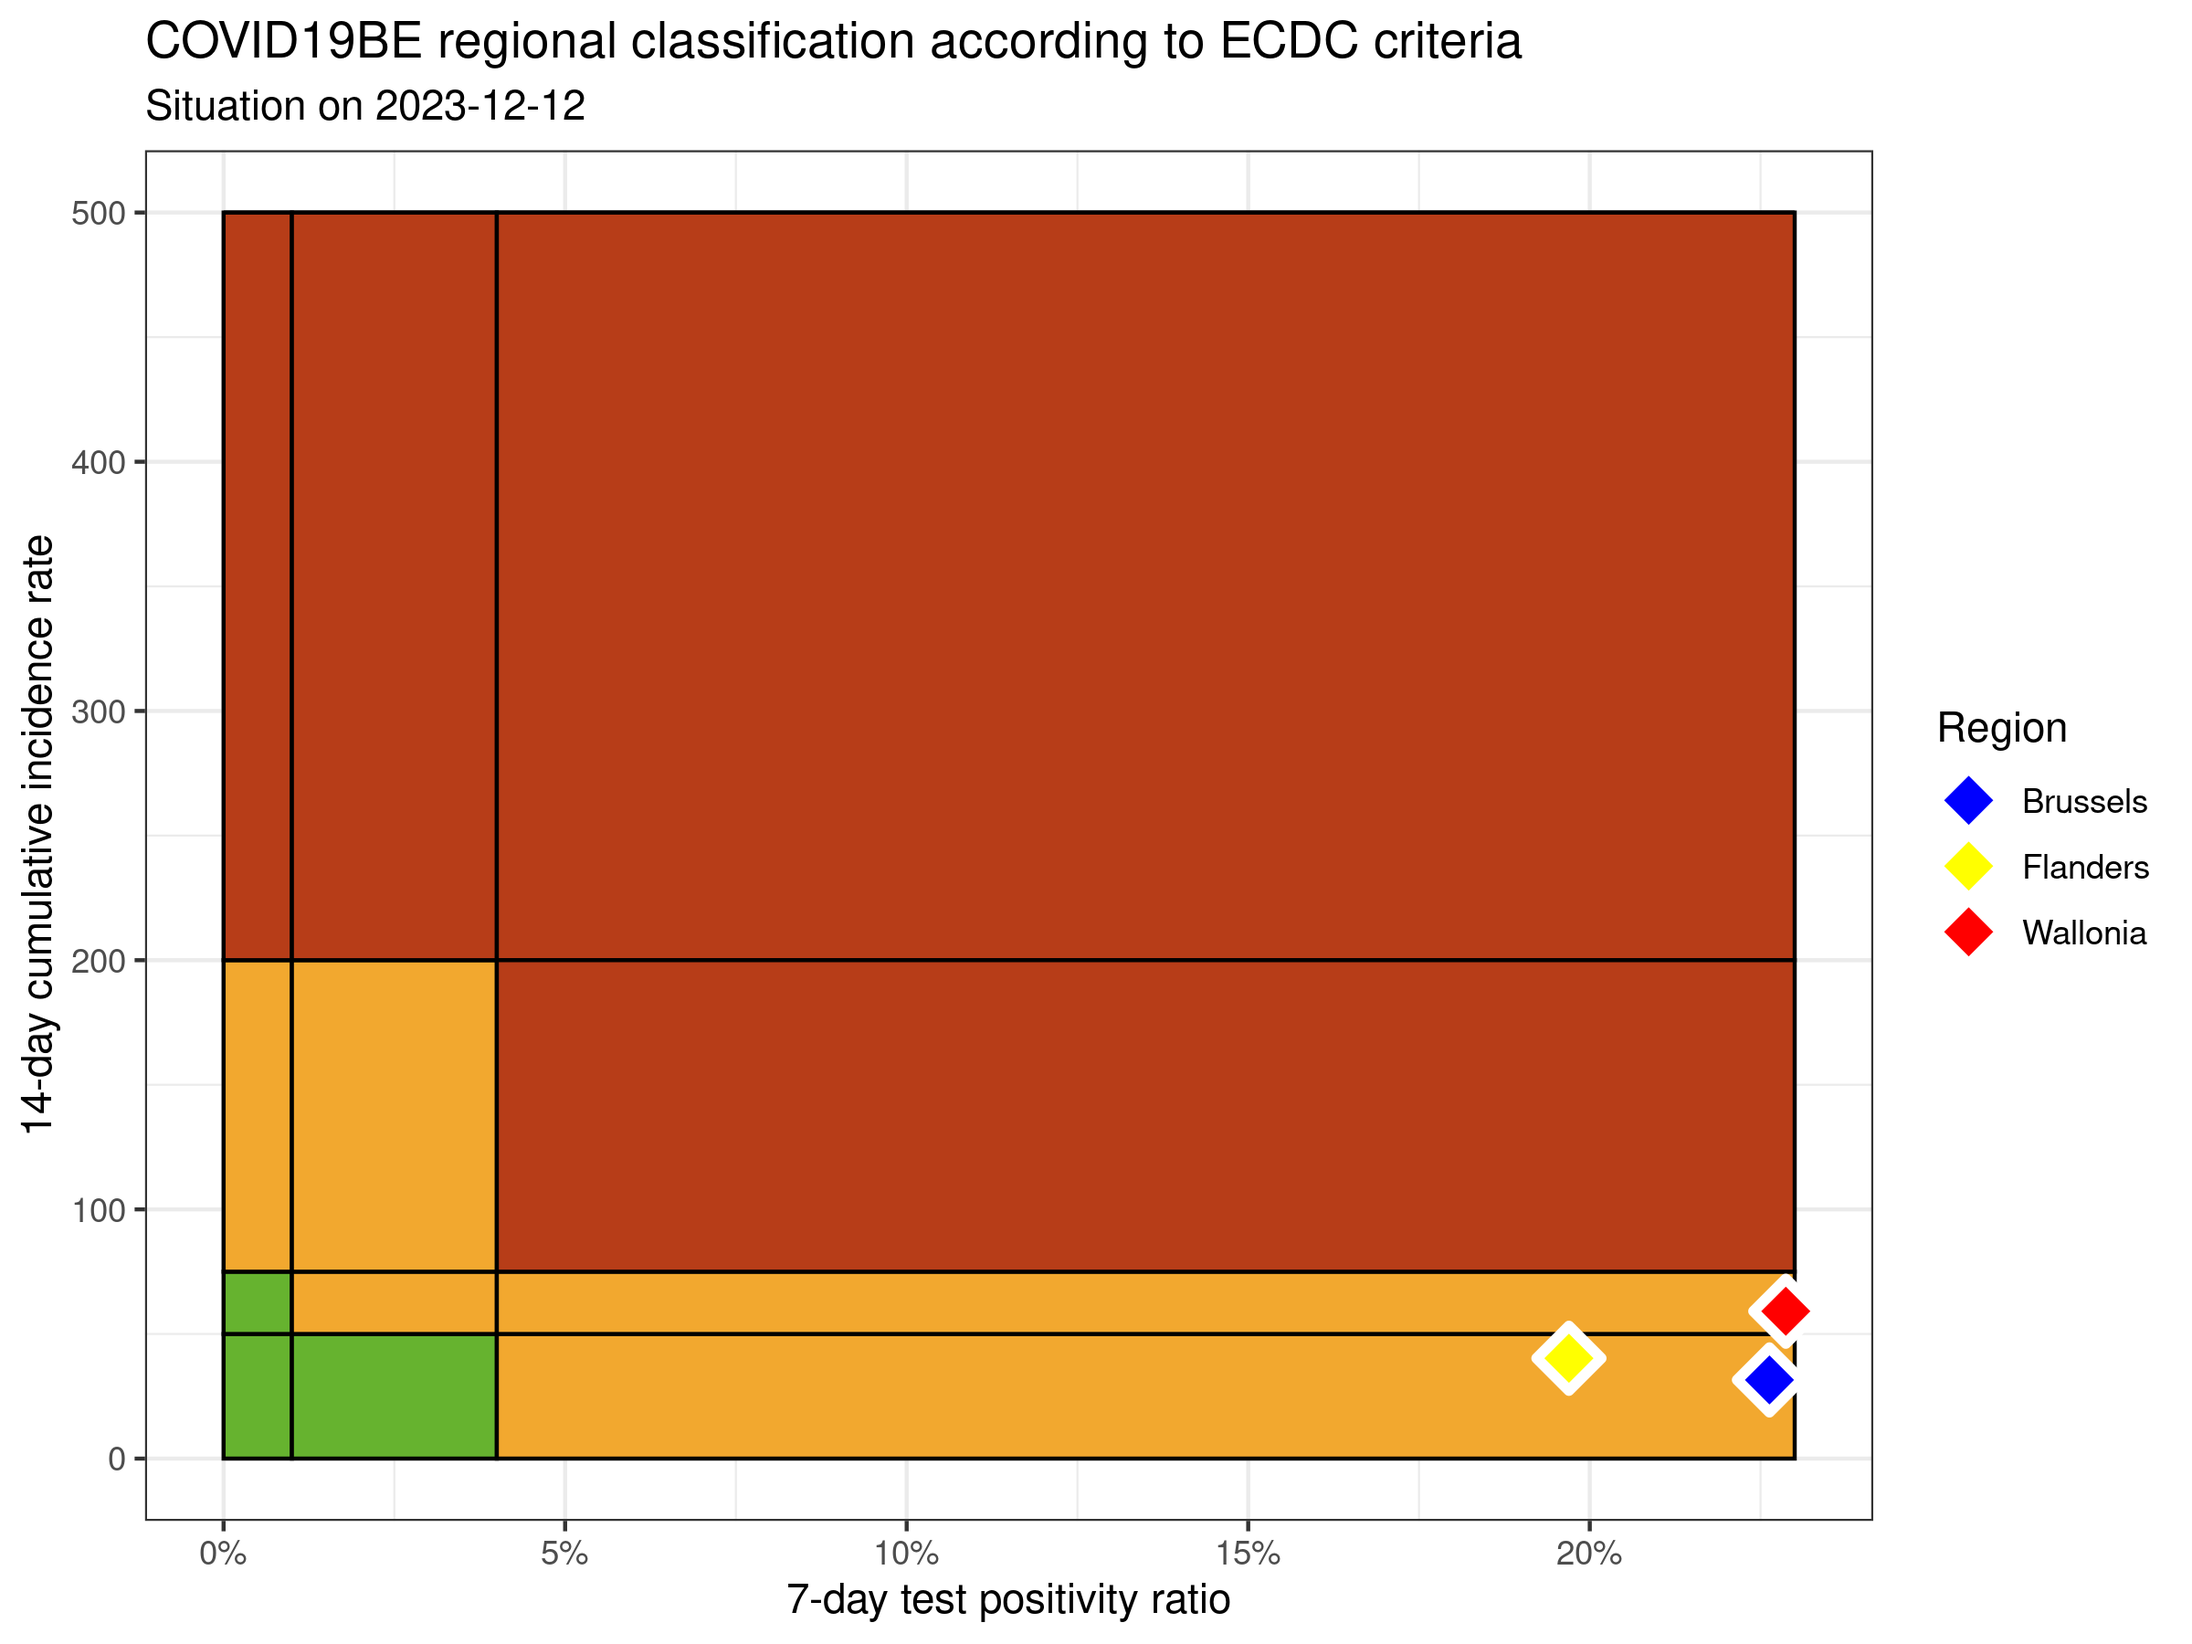
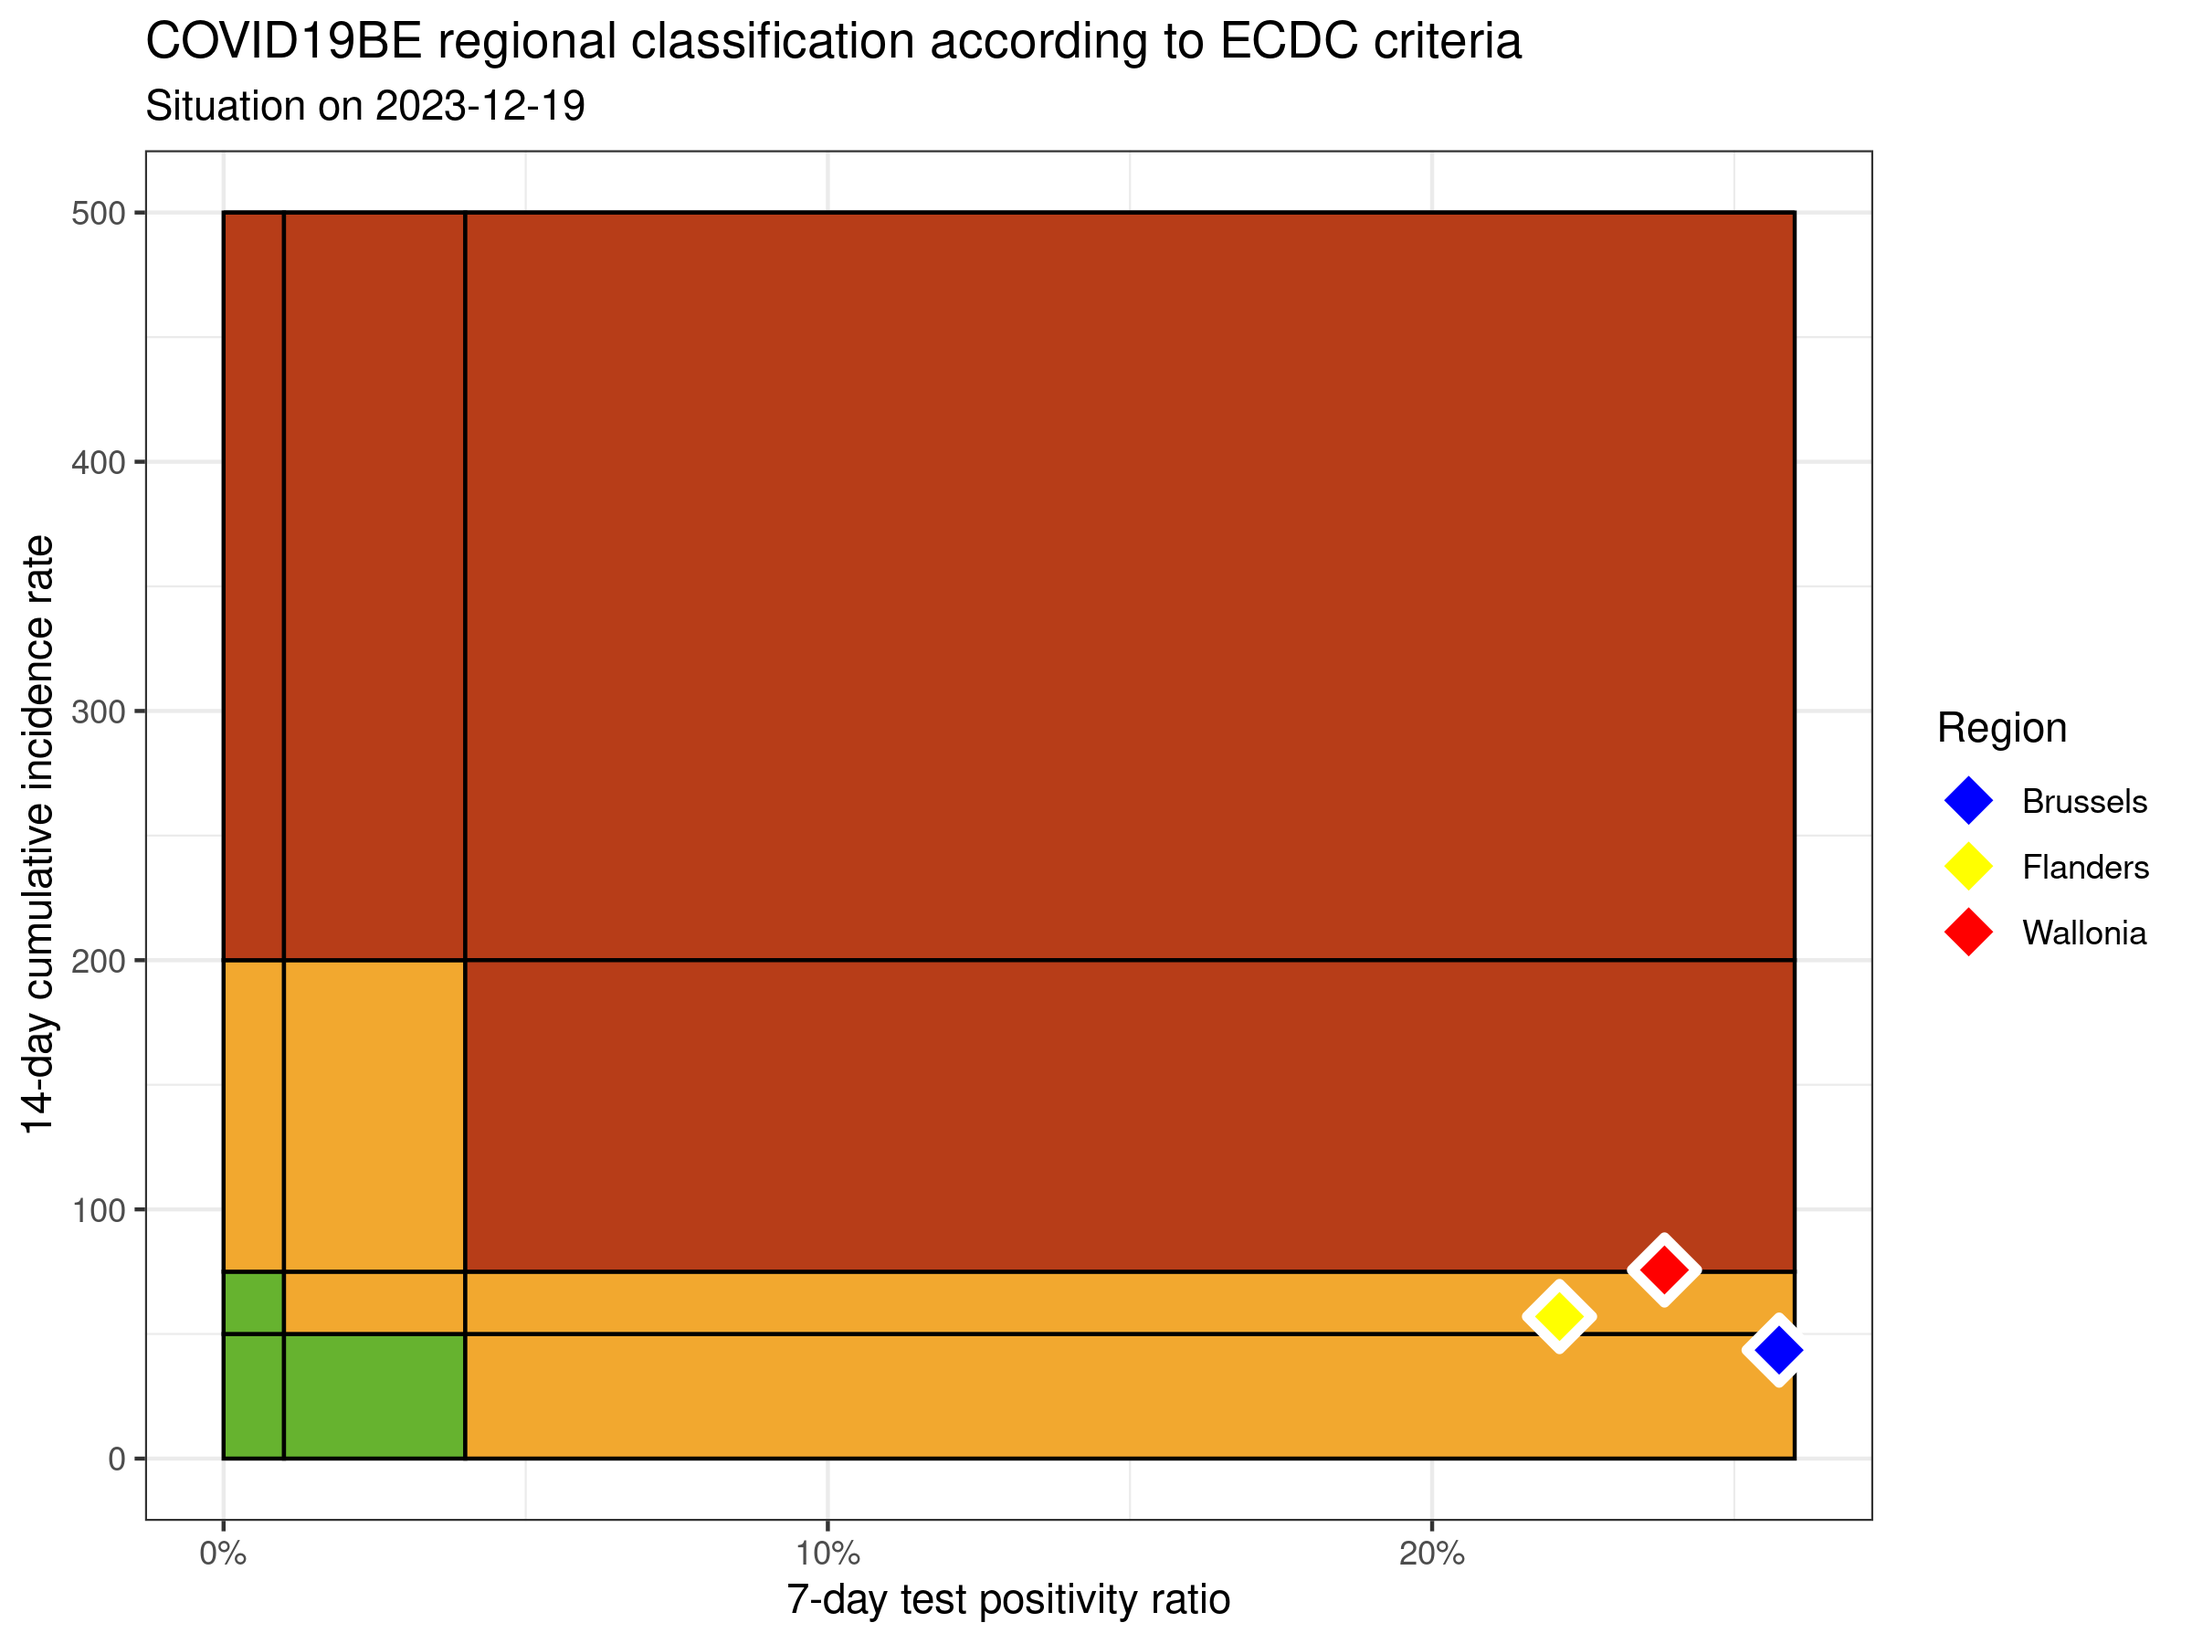
update situation

diff --git a/ecdc-trend/README.md b/ecdc-trend/README.md
@@ -9,11 +9,11 @@
 
 ![](COVID9BE-ecdc-trend.png)
 
-|          | INC14 | INC7 | TST7 | TST\_POS7 | REGION   |     POP | INC14\_RT |       PR7 |        GR |
-| :------- | ----: | ---: | ---: | --------: | :------- | ------: | --------: | --------: | --------: |
-| Brussels |   385 |  229 | 1034 |       234 | Brussels | 1219970 |  31.55815 | 0.2263056 | 0.4679487 |
-| Flanders |  2678 | 1628 | 9180 |      1808 | Flanders | 6653062 |  40.25214 | 0.1969499 | 0.5504762 |
-| Wallonia |  2157 | 1238 | 6091 |      1393 | Wallonia | 3648206 |  59.12495 | 0.2286981 | 0.3471164 |
+|          | INC14 | INC7 |  TST7 | TST\_POS7 | REGION   |     POP | INC14\_RT |       PR7 |        GR |
+| :------- | ----: | ---: | ----: | --------: | :------- | ------: | --------: | --------: | --------: |
+| Brussels |   531 |  297 |  1313 |       338 | Brussels | 1219970 |  43.52566 | 0.2574257 | 0.2692308 |
+| Flanders |  3792 | 2160 | 10919 |      2414 | Flanders | 6653062 |  56.99631 | 0.2210825 | 0.3235294 |
+| Wallonia |  2761 | 1513 |  7339 |      1750 | Wallonia | 3648206 |  75.68103 | 0.2384521 | 0.2123397 |
 
 ### Read more
 
